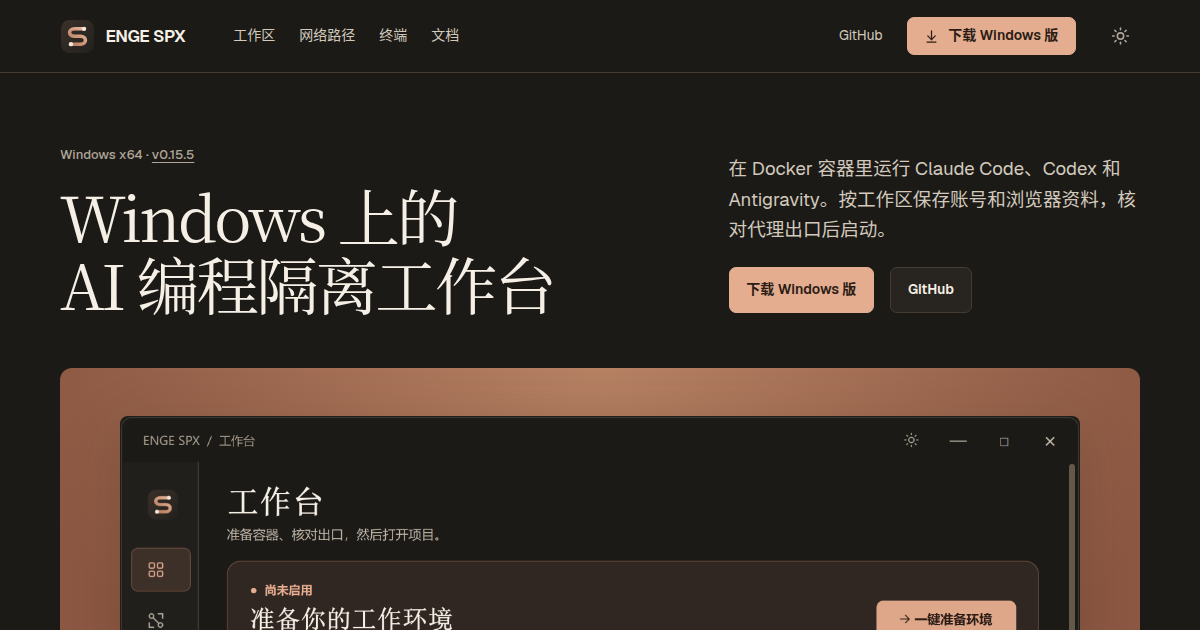
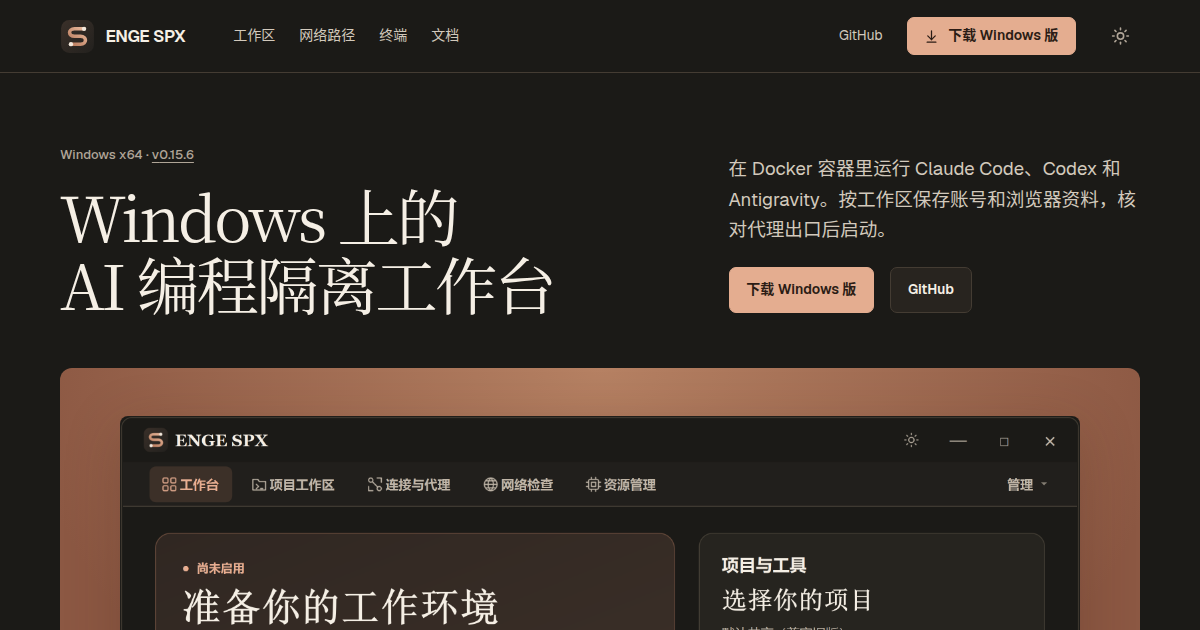
Show the redesigned 0.15.6 workbench on the website and in the README [skip ci]

diff --git a/website/src/lib/content.ts b/website/src/lib/content.ts
@@ -3,21 +3,21 @@ export type Theme = "dark" | "light";
 
 export const product = {
     name: "ENGE SPX",
-    version: "0.15.5",
+    version: "0.15.6",
     published: "2026-11-22",
     site: "https://enge1337.cn",
     repository: "https://github.com/engeeeee/ENGE-SPX",
     release:
-        "https://github.com/engeeeee/ENGE-SPX/releases/tag/v0.15.5-windows",
+        "https://github.com/engeeeee/ENGE-SPX/releases/tag/v0.15.6-windows",
     installer:
-        "https://github.com/engeeeee/ENGE-SPX/releases/download/v0.15.5-windows/ENGE-SPX-Windows-x64-0.15.5-Setup.exe",
+        "https://github.com/engeeeee/ENGE-SPX/releases/download/v0.15.6-windows/ENGE-SPX-Windows-x64-0.15.6-Setup.exe",
     portable:
-        "https://github.com/engeeeee/ENGE-SPX/releases/download/v0.15.5-windows/ENGE-SPX-Windows-x64-0.15.5-Portable.zip",
+        "https://github.com/engeeeee/ENGE-SPX/releases/download/v0.15.6-windows/ENGE-SPX-Windows-x64-0.15.6-Portable.zip",
     installerSha256:
[2 lines of base64/hex data omitted]
     portableSha256:
[1 lines of base64/hex data omitted]
-    screenshotVersion: "0.15.5",
[1 lines of base64/hex data omitted]
+    screenshotVersion: "0.15.6",
 } as const;
 
 export const docs = {
@@ -49,7 +49,7 @@ export const screenshots = [
     {
         id: "overview",
         title: "工作台",
-        alt: "ENGE SPX Windows 工作台：一键准备、线路和落地出口、工作区路径",
+        alt: "ENGE SPX Windows 工作台：顶部导航、环境准备、项目工具与代理路径",
         source: `/screenshots/${product.screenshotVersion}/dark/overview.png`,
         lightSource: `/screenshots/${product.screenshotVersion}/light/overview.png`,
         width: 960,
@@ -78,8 +78,8 @@ export const screenshots = [
         alt: "真实连接与代理界面：分别选择落地、前置线路和本机代理",
         source: `/screenshots/${product.screenshotVersion}/dark/connection.png`,
         lightSource: `/screenshots/${product.screenshotVersion}/light/connection.png`,
-        width: 840,
-        height: 1050,
+        width: 960,
+        height: 960,
         pixelRatio: 3,
         platform: "Windows 原生界面",
         version: product.screenshotVersion,
@@ -130,6 +130,6 @@ export const faqs = [
     },
     {
         question: "如何更新 ENGE SPX？",
-        answer: "0.15 及以上可在“偏好设置 → 软件更新”检查正式版。更早版本可下载新版安装包手动更新。",
+        answer: "打开“管理 → 偏好设置 → 常规”，在软件更新里检查正式版。",
     },
 ] as const;

diff --git a/website/src/components/sections/workspace.tsx b/website/src/components/sections/workspace.tsx
@@ -6,8 +6,8 @@ export function WorkspaceSection() {
         <section id="workspace" className="section container showcase workspace-section" aria-labelledby="workspace-title">
             <div className="showcase-copy">
                 <h2 id="workspace-title">项目工作区</h2>
-                <p>选择本地目录和挂载权限，再启动 Claude Code、Codex、Antigravity、Linux 终端或 Chromium。</p>
-                <p>工作区分别保存工具账号、会话历史和浏览器资料。切换回去可继续使用原来的资料。</p>
+                <p>在左侧选择身份、本地目录和访问权限，在右侧启动 Claude Code、Codex、Antigravity、终端或 Chromium。</p>
+                <p>工具账号、会话历史和浏览器资料分别保存在各个工作区。</p>
                 <a className="text-link" href={docs.workspaces}>创建与切换工作区</a>
             </div>
             <div className="showcase-image">

diff --git a/README.md b/README.md
@@ -35,16 +35,16 @@
 
 ## 界面预览
 
-**工作台：从准备环境到确认出口，在一个入口完成。** 打开软件先查看状态，何时启动 Docker、准备环境和启用连接，由你决定。
+**工作台：顶部导航、环境启用和项目工具。** 打开软件先查看状态，何时启动 Docker、准备环境和启用连接，由你决定。
 
-![ENGE SPX 0.13.2 在 Windows 上运行的工作台，包含一键准备、出口信息和工作区网络路径](docs/images/0.13.2/2x/overview.png)
+![ENGE SPX 0.15.6 在 Windows 上运行的工作台，包含一键准备、出口信息和工作区网络路径](website/public/screenshots/0.15.6/dark/overview.png)
 
 | 项目工作区：选择项目、身份和工具 | 连接与代理：分别管理线路和落地 |
 | --- | --- |
-| [![Windows 项目工作区，展示目录选择、身份授权及 Claude Code、Codex 和 Chromium 入口](docs/images/0.13.2/2x/workspace.png)](docs/images/0.13.2/2x/workspace.png) | [![Windows 连接与代理页，展示 SOCKS5、HTTP、HTTPS 落地和前置线路设置](docs/images/0.13.2/2x/connection.png)](docs/images/0.13.2/2x/connection.png) |
+| [![Windows 项目工作区，展示目录选择、身份授权及 Claude Code、Codex 和 Chromium 入口](website/public/screenshots/0.15.6/dark/workspace.png)](website/public/screenshots/0.15.6/dark/workspace.png) | [![Windows 连接与代理页，展示 SOCKS5、HTTP、HTTPS 落地和前置线路设置](website/public/screenshots/0.15.6/dark/connection.png)](website/public/screenshots/0.15.6/dark/connection.png) |
 | 选择本地目录，应用身份和只读/读写权限；连接确认后，从同一页面打开 Claude Code、Codex、Linux 终端与工作区浏览器。 | 导入或添加节点，选择软件内双跳或本机 v2ray 兼容模式，配置线路服务器、落地和下载代理。 |
 
-截图为 **0.13.2 真实程序在 Windows 原生环境中的运行画面**，使用未配置账号与节点的临时数据，展示配置入口。点击图片可查看原图；[截图来源与复现](docs/screenshots/README.md)记录了源码版本、Windows CI 和文件校验信息。
+截图为 **0.15.6 真实程序在 Windows 原生环境中的运行画面**，使用未配置账号与节点的临时数据，展示配置入口。点击图片可查看原图；[截图来源与复现](docs/screenshots/README.md)记录了源码版本、Windows CI 和文件校验信息。
 
 **智能终端：在 Codex 原来的输入区编辑文字、粘贴图片和文件。**
 

diff --git a/README.en.md b/README.en.md
@@ -41,14 +41,14 @@ This diagram shows managed chaining. The browser does not mount the project or t
 
 **Start from one workspace dashboard.** Prepare the runtime, review the selected route and exits, then open your project and tools. Opening the app checks status; you choose when Docker starts.
 
-![ENGE SPX 0.13.2 running on Windows: preparation steps, exit information and workspace route](docs/images/0.13.2/2x/overview.png)
+![ENGE SPX 0.15.6 running on Windows: preparation steps, exit information and workspace route](website/public/screenshots/0.15.6/dark/overview.png)
 
 | Projects, identities and tools | Lines and landing proxies |
 | --- | --- |
-| [![Windows workspace page with project grants and Claude Code, Codex and Chromium launch controls](docs/images/0.13.2/2x/workspace.png)](docs/images/0.13.2/2x/workspace.png) | [![Windows proxy page with landing selection and managed line settings](docs/images/0.13.2/2x/connection.png)](docs/images/0.13.2/2x/connection.png) |
+| [![Windows workspace page with project grants and Claude Code, Codex and Chromium launch controls](website/public/screenshots/0.15.6/dark/workspace.png)](website/public/screenshots/0.15.6/dark/workspace.png) | [![Windows proxy page with landing selection and managed line settings](website/public/screenshots/0.15.6/dark/connection.png)](website/public/screenshots/0.15.6/dark/connection.png) |
 | Select a local project, apply an identity and read-only/read-write grant, then use the tool and browser controls after connection confirmation. | Import nodes, choose a managed fixed chain or local-v2ray compatibility, and configure the line, landing and download proxy separately. |
 
-These are actual **0.13.2 native Windows UI captures** using temporary data without accounts, proxy nodes or a running Docker workspace. Click an image for full size. [Capture provenance and reproduction](docs/screenshots/README.md) includes the source commit, Windows run and image hashes. The UI is currently Chinese.
+These are actual **0.15.6 native Windows UI captures** using temporary data without accounts, proxy nodes or a running Docker workspace. Click an image for full size. [Capture provenance and reproduction](docs/screenshots/README.md) includes the source commit, Windows run and image hashes. The UI is currently Chinese.
 
 **Smart terminal: edit the current Codex draft and paste images or files in place.**
 

diff --git a/website/DESIGN.md b/website/DESIGN.md
@@ -4,6 +4,6 @@
 
 首页先介绍产品用途和下载方式，随后展示工作区、两种代理路径、终端与资源控制。安装步骤、常见问题和文档入口集中在页尾。通过 `src/lib/content.ts` 更新产品版本、下载及截图来源。
 
-截图来自项目仓库。首屏从顶部展示一张清晰的 Windows 工作台，点击可查看全图或按原始逻辑尺寸阅读。工作台、代理、项目与资源截图来自 Windows v0.15.5，两种配色分别实拍并随主题切换。终端截图来自 Linux 上运行的 v0.15.1 与 Codex。软件图内的界面保持原样，网络路径图为单独的架构示意。
+截图来自项目仓库。首屏从顶部展示一张清晰的 Windows 工作台，点击可查看全图或按原始逻辑尺寸阅读。工作台、代理、项目与资源截图来自 Windows v0.15.6，两种配色分别实拍并随主题切换。终端截图来自 Linux 上运行的 v0.15.1 与 Codex。软件图内的界面保持原样，网络路径图为单独的架构示意。
 
 代理图标明第一跳与落地出口。SOCKS5、HTTP、HTTPS 是落地协议的可选项。本机 v2ray 模式的按目标分流由外部客户端控制。

diff --git a/website/README.md b/website/README.md
@@ -42,7 +42,7 @@ scripts/deploy-static.py          Linux 上的静态目录原子发布
 
 ## 软件截图的真实性与清晰度
 
-官网默认深色，可在右上角切换并记住选择。工作台、连接、项目和资源页使用 **0.15.5 Windows** 两种主题的原生 3× 截图，放大后仍可按原始逻辑尺寸阅读。采集记录和 SHA-256 位于 `public/screenshots/0.15.5` 中各主题的 `capture.json`。
+官网默认深色，可在右上角切换并记住选择。工作台、连接、项目和资源页使用 **0.15.6 Windows** 两种主题的原生 3× 截图，放大后仍可按原始逻辑尺寸阅读。采集记录和 SHA-256 位于 `public/screenshots/0.15.6` 中各主题的 `capture.json`。
 
 终端截图来自 **0.15.1 Linux 产品终端 + Codex 0.169.0**，使用 2200×1360 原生 2× 原图。图片来源与展示方式见 [DESIGN.md](DESIGN.md)。
 

diff --git a/docs/screenshots/README.md b/docs/screenshots/README.md
@@ -1,5 +1,9 @@
 # 软件界面截图与复现
 
+## 工作台 0.15.6
+
+新版工作台、项目、连接和资源页使用 Windows 上的 3× 原生采集，临时数据未配置账号或节点。文件尺寸与 SHA-256 见 [深色清单](../../website/public/screenshots/0.15.6/dark/capture.json) 和 [浅色清单](../../website/public/screenshots/0.15.6/light/capture.json)。[Windows 截图运行记录](https://github.com/engeeeee/ENGE-SPX/actions/runs/45031285658)
+
 README 中的四张主程序图片来自 **ENGE SPX 0.13.2 在原生 Windows 环境运行的真实 Qt 界面**。截取工作台、项目工作区、连接与代理、资源预算页面，PNG 原图保留，不经过图像生成、拼接或添加虚构状态。新增终端图的平台、版本与复现方法见下方“智能终端”。
 
 | 项目 | 记录 |
